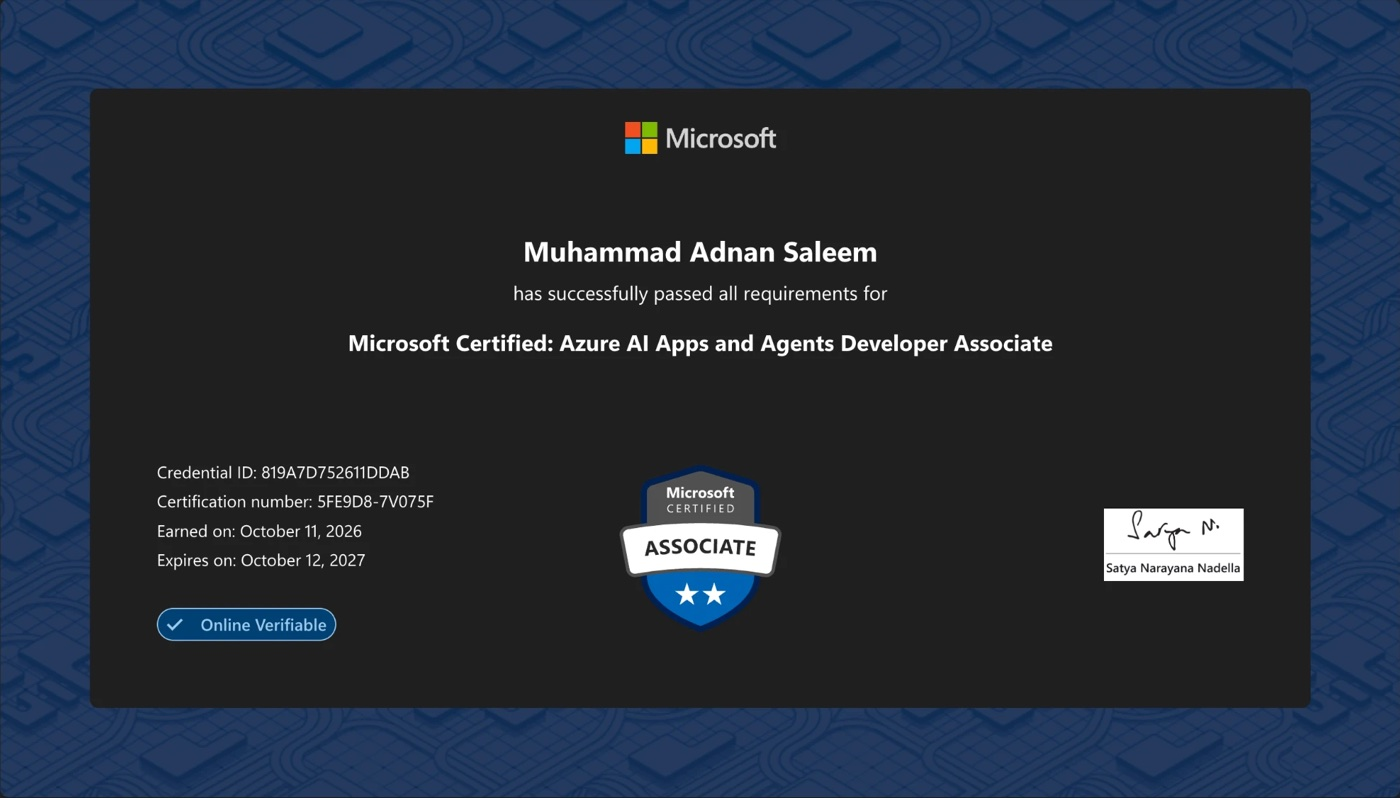
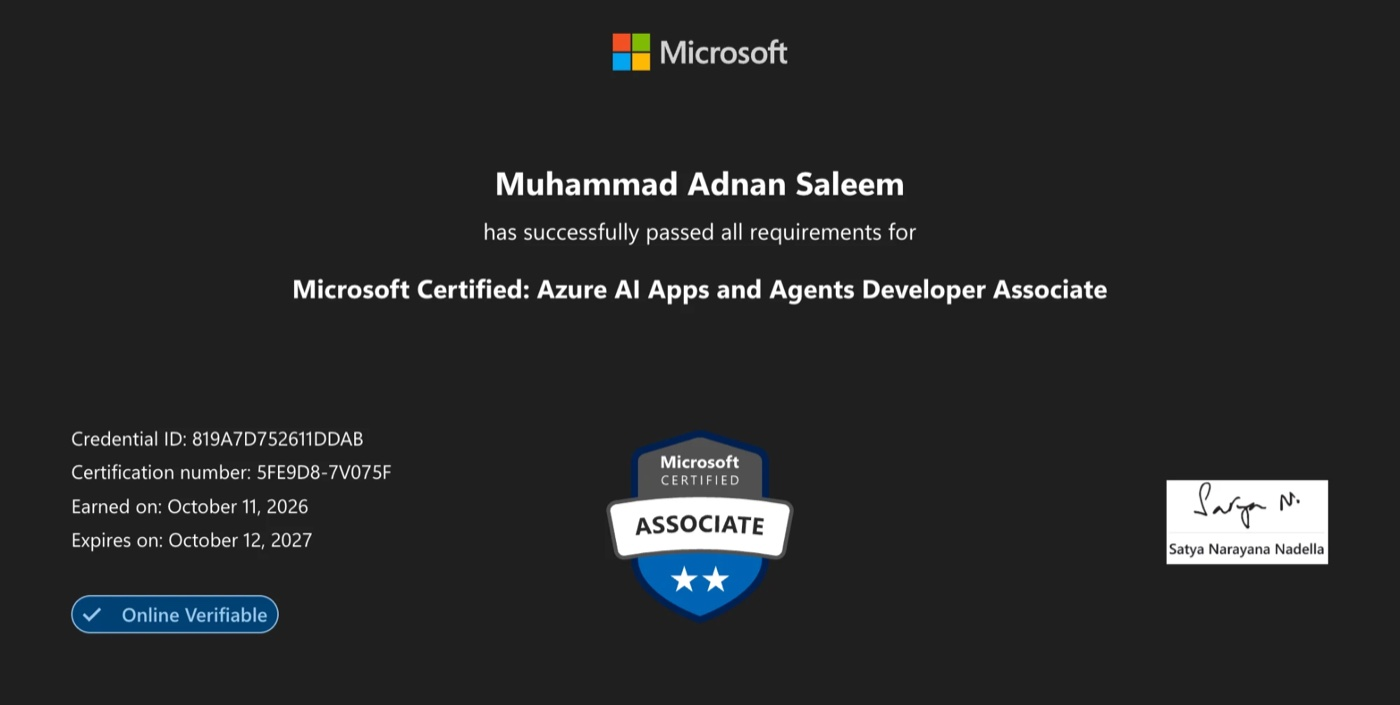
fix: point the dark certificate at the new picture, v2.21.2

diff --git a/src/lib/data.ts b/src/lib/data.ts
@@ -314,7 +314,7 @@ export const certifications: Credential[] = [
         detail: "Issued by Microsoft in October 2026. AI-103 is the successor to AI-102 (Azure AI Engineer Associate), which retired in June 2026.",
         validates: ["Microsoft Foundry", "Azure OpenAI", "Agents with function calling and multi-agent orchestration", "RAG with Azure AI Search", "Azure AI Content Safety", "Azure AI Vision", "Azure AI Document Intelligence", "Azure AI Language and Speech"],
         image: "/certs/microsoft-ai-apps-agents.png",
-        imageDark: "/certs/microsoft-ai-apps-agents-dark.jpg",
+        imageDark: "/certs/microsoft-ai-apps-agents-plain-dark.jpg",
         meta: "Oct 2026",
         href: "https://learn.microsoft.com/api/credentials/share/en-us/MuhammadAdnanSaleem-7401/819A7D752611DDAB?sharingId=9033F8FC5FC2408C"
     },
